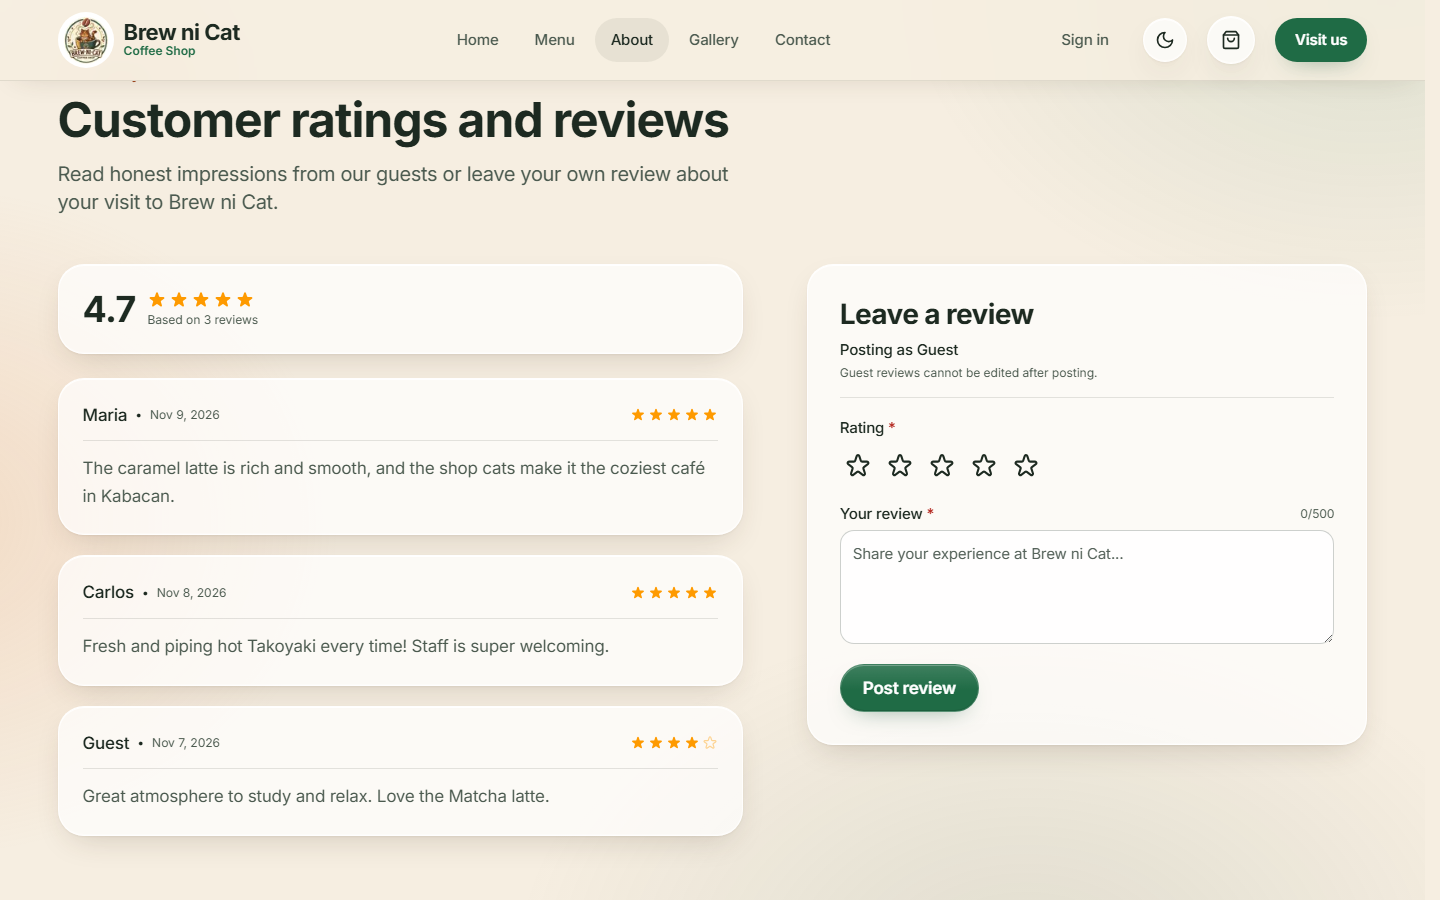
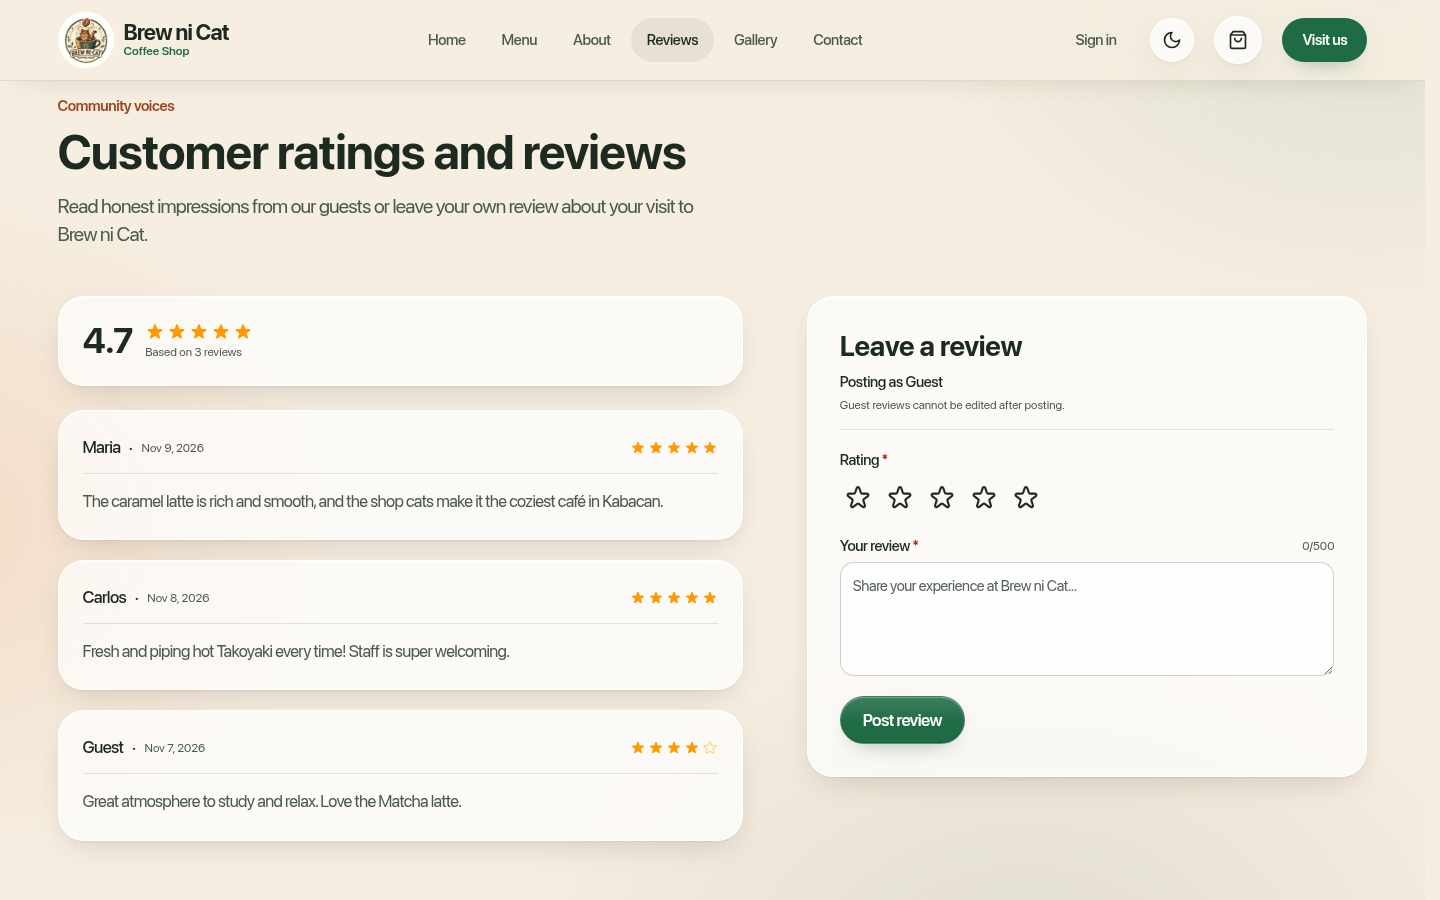
docs(reviews): record the reviews page and refresh its evidence

diff --git a/docs/test-cases.md b/docs/test-cases.md
@@ -1408,9 +1408,19 @@ Customers could not find the reviews, because they were only near the bottom of 
 | TC-P5-204 | FR-098 | The home page loads with seven reviews | Shows the average rating 4.6, "7 reviews", the newest three reviews, and the links Leave a review and Read all reviews | Passed (automated) |
 | TC-P5-205 | FR-098 | The home page loads with no reviews | Shows "No reviews yet. Be the first." and Leave a review, without Read all reviews | Passed (automated) |
 | TC-P5-206 | FR-098 | The reviews can't be loaded | The home page still shows Leave a review, with no error and no empty message | Passed (automated) |
-| TC-P5-207 | FR-098 | The site navigation | Has a Reviews link to `/about#reviews`, used by the header, the phone menu and the footer | Passed (automated) |
-| TC-P5-208 | FR-098 | Browser test at 390 and 1440 pixels wide | The home block shows the average, the count and three reviews without sideways scrolling; Read all reviews opens `/about#reviews` with the reviews in view | Passed (automated) |
-| TC-P5-209 | FR-098 | Browser test of the Reviews link in the desktop menu (1024 and 1440) and the phone menu (390) | The link fits without sideways scrolling and opens `/about#reviews` with the reviews in view | Passed (automated) |
+| TC-P5-207 | FR-098 | The site navigation | Has a Reviews link to `/reviews`, used by the header, the phone menu and the footer | Passed (automated) |
+| TC-P5-208 | FR-098 | Browser test at 390 and 1440 pixels wide | The home block shows the average, the count and three reviews without sideways scrolling; Read all reviews opens `/reviews` with the reviews in view | Passed (automated) |
+| TC-P5-209 | FR-098 | Browser test of the Reviews link in the desktop menu (1024 and 1440) and the phone menu (390) | The link fits without sideways scrolling and opens `/reviews` with the reviews in view | Passed (automated) |
+
+Update 2026-11-13: the reviews moved from the About page to their own page, `/reviews`, at the team's request. TC-P5-207 to TC-P5-209 now expect `/reviews` instead of `/about#reviews`. An old `/about#reviews` link forwards to `/reviews`.
+
+| ID | Requirement | Scenario | Expected result | Status |
+| --- | --- | --- | --- | --- |
+| TC-P5-213 | FR-098 | `/reviews` page | Has its own heading "Reviews", the reviews list and the review form | Passed (automated) |
+| TC-P5-214 | FR-098 | The site navigation | The Reviews link opens `/reviews`, not the About page | Passed (automated) |
+| TC-P5-215 | FR-098 | `/about#reviews` (an old link) | Forwards to `/reviews` | Passed (automated) |
+| TC-P5-216 | FR-098 | `/about` without the hash, then the hash changes to `#reviews` | Stays on About until the hash changes, then forwards to `/reviews` | Passed (automated) |
+| TC-P5-217 | FR-098 | Browser test at 390 and 1440 pixels wide | `/reviews` shows the reviews without sideways scrolling; `/about#reviews` lands on `/reviews`; evidence `docs/evidence/phase-5/reviews-home/reviews-page-{phone-390,desktop-1440}.png` | Passed (automated) |
 
 ## 50. Ad Slot For The Mini-Games Cases (2026-11-10)
 

diff --git a/docs/development-log.md b/docs/development-log.md
@@ -1829,3 +1829,12 @@ This log records completed work and observed evidence. Planned work is explicitl
 - **Branch / PR:** `feat/messenger-smart-replies`.
 - **Known limitations:** `GEMINI_API_KEY` is not in Vercel yet (needs the team's OK, and the key should be rotated first). The new greeting needs the Messenger Profile API after the merge. Only people with a role on the Meta app get replies until App Review. The free tier may use prompts to improve Google's products; the owner hasn't confirmed the policy wording. MAN-P7-009 is Pending.
 - **Update 2026-11-13 (Rodnee asked to loop every Gemini model until one answers, on the free tier):** `DEFAULT_GEMINI_MODELS` now lists every Gemini and Gemma text model the free-tier key can use (15, from the models list on 2026-11-13; `gemini-2.5-*` answer 404 "no longer available to new users" and were left out). The assistant goes round them until one answers: busy (503), rate-limited (429), failing, empty and slow models are skipped, with a short wait between rounds, within 45 seconds in all and 12 per model. A model that answers 404 or 400 rests for a day and a 429 model for its retry delay. Gemma gets its instructions in the message. The webhook route allows 60 seconds (`maxDuration`). A live run with the real key answered three questions on `gemini-3.1-flash-lite` in 5.4 seconds; in the probe before it, eight of the models were busy (503) or timed out. TC-P7-099 and TC-P7-100 updated, TC-P7-108 added. Also fixed TC-P5-088, which still expected the old policy date (CI failure).
+
+## 2026-11-13 — Reviews on their own page
+
+- **Phase:** Phase 5 (FR-098), enhancement.
+- **Task:** The team asked for the reviews to have their own page instead of a section of About.
+- **Summary:** Added `/reviews` (page heading, the reviews list and the review form). The header, phone menu, footer, the home page's Read all reviews link and the page curtain's title now point to `/reviews`. About no longer shows the reviews; an old `/about#reviews` link forwards to `/reviews`.
+- **Files:** `src/app/reviews/page.tsx` (new), `src/components/reviews/reviews-hash-redirect.tsx` (new), `src/app/about/page.tsx`, `src/components/reviews/reviews-preview.tsx`, `src/components/motion/route-curtain.tsx`, `src/config/site.ts`, `tests/unit/{reviews-page,reviews-preview}.test.tsx`, `tests/e2e/{reviews,home-reviews,foundation}.spec.ts`, `docs/test-cases.md` §49, `docs/evidence/phase-5/reviews-home/`.
+- **Testing:** see the PR.
+- **Branch / PR:** `feat/reviews-page`.
